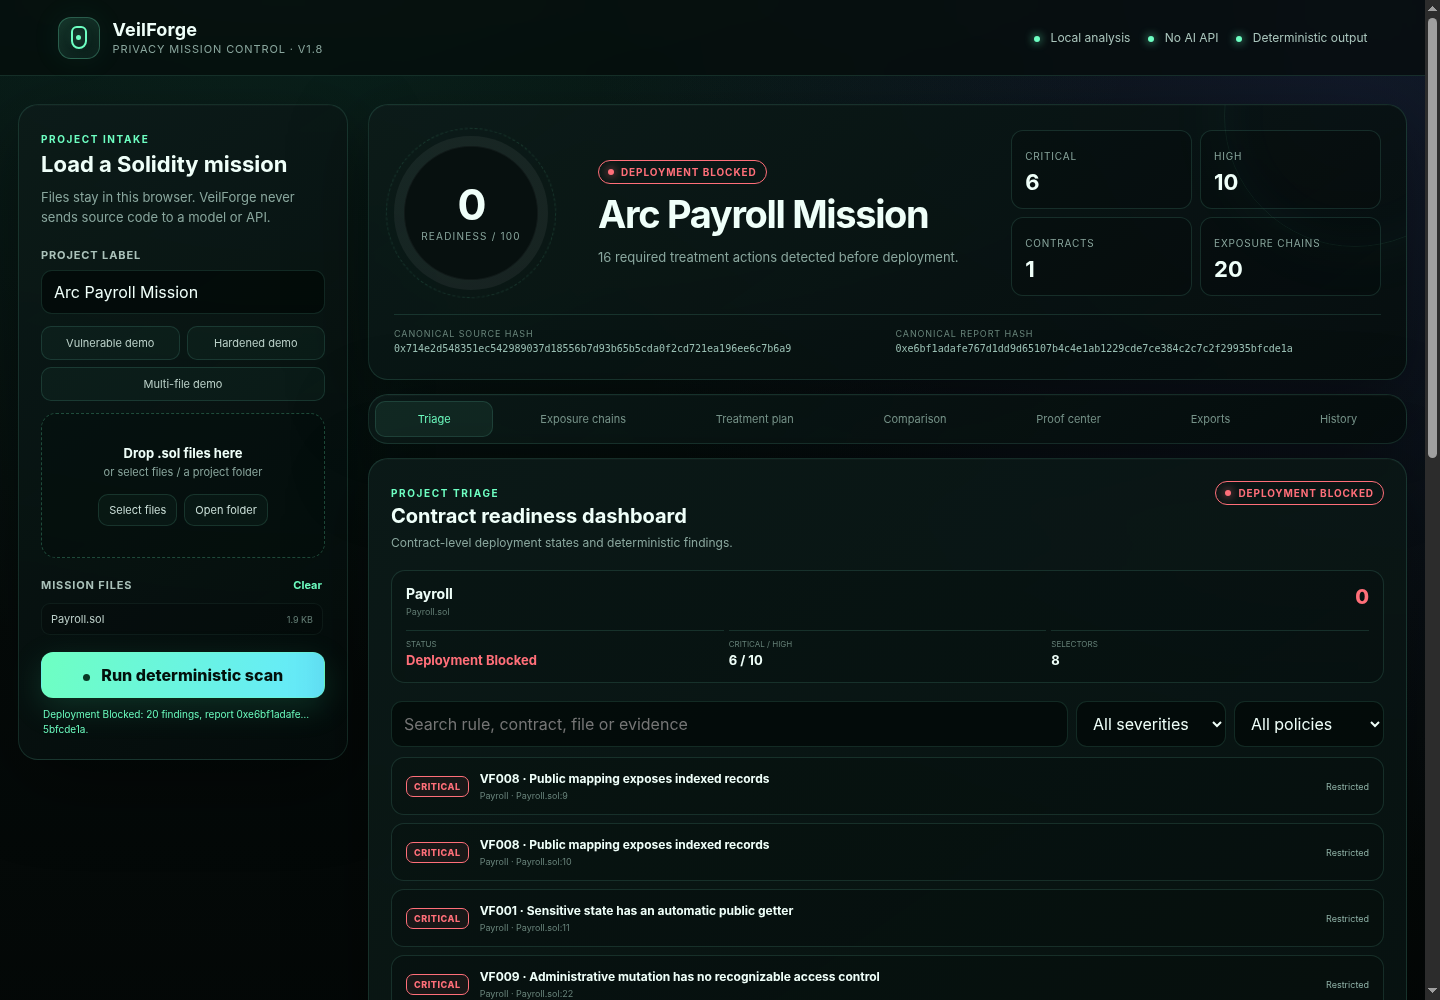
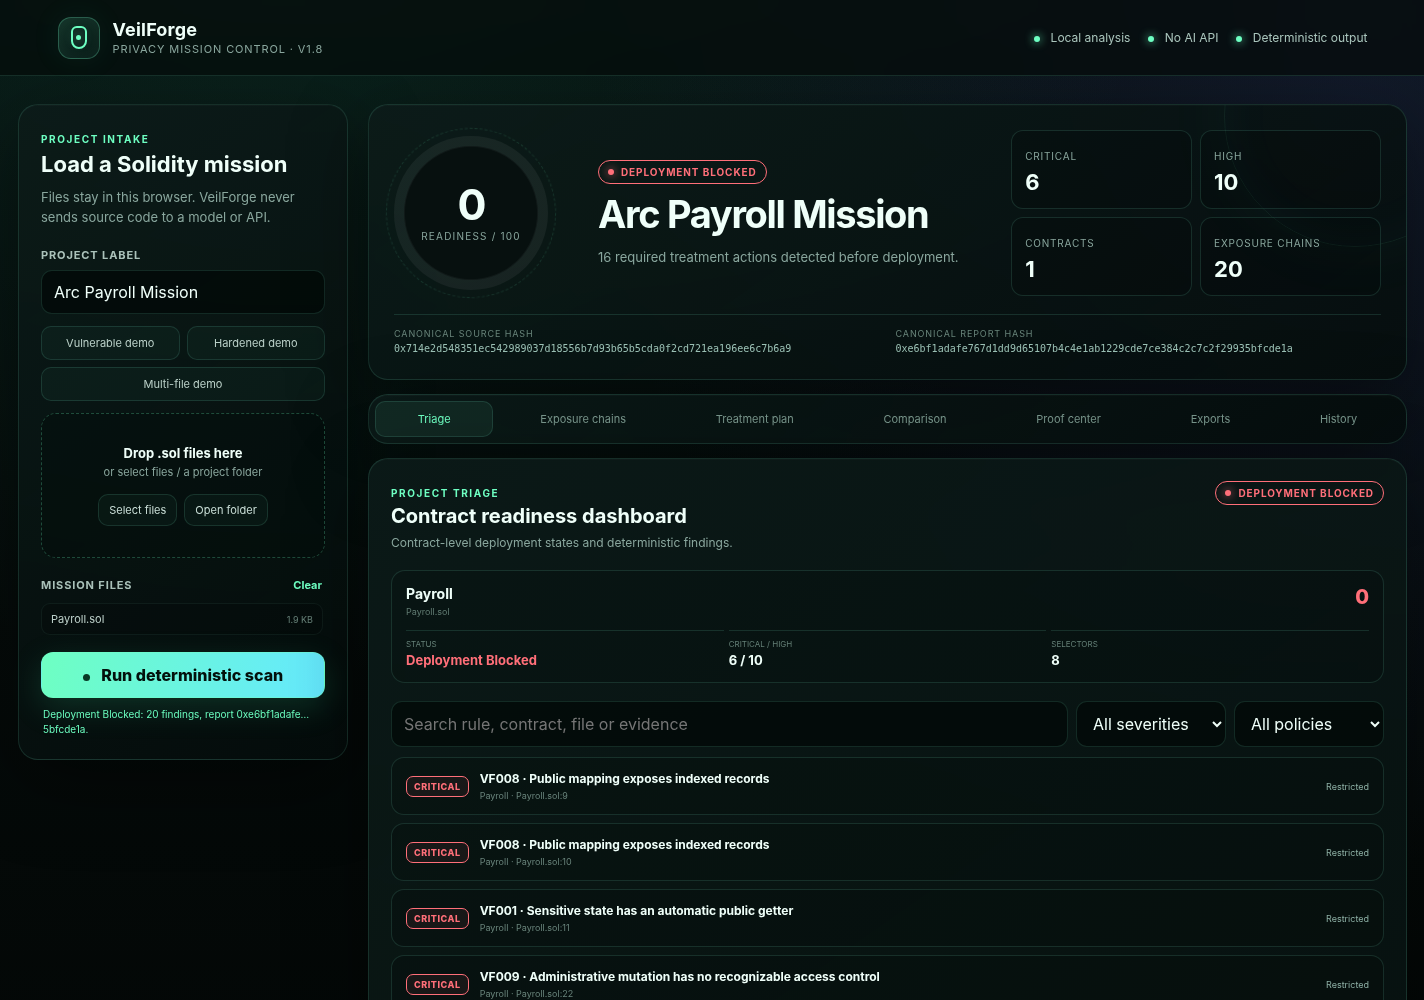
VeilForge-v1.8.15-README-SIMPLE-FIX

diff --git a/README.md b/README.md
@@ -43,68 +43,11 @@ VeilForge analyzes Solidity projects locally before deployment and turns determi
 - canonical JSON, Markdown, Arc Policy Manifest, and Remediation Pack ZIP exports
 - reusable analyzer engine, CLI, custom-rule interface, JSON schemas, and integration examples
 
-## Product tour
-
-### Privacy Mission Control
-
-Project-level intake, deterministic scanning, readiness states, filters, hashes, and findings in one workspace.
-
 <p align="center">
   <img
     src="./assets/v1.8/veilforge-v18-dashboard.png"
-    alt="VeilForge v1.8 contract readiness dashboard"
-    width="100%"
-  />
-</p>
-
-### Deterministic exposure chains
-
-Trace how a privacy-relevant storage value reaches functions, events, callable selectors, and the recommended Arc policy boundary.
-
-<p align="center">
-  <img
-    src="./assets/v1.8/veilforge-v18-exposure-chains.png"
-    alt="VeilForge deterministic exposure chains"
-    width="82%"
-  />
-</p>
-
-### Baseline comparison
-
-Compare scans to identify findings that were resolved, remain ongoing, or were introduced by a new revision.
-
-<p align="center">
-  <img
-    src="./assets/v1.8/veilforge-v18-comparison.png"
-    alt="VeilForge baseline comparison"
-    width="82%"
-  />
-</p>
-
-### Multi-EVM wallet session and Proof Center 2.0
-
-VeilForge discovers compatible browser wallets through EIP-6963/EIP-1193, simulates the registry call, sends the selected-wallet transaction, waits for the receipt, and reports success only after onchain confirmation.
-
-<p align="center">
-  <img
-    src="./assets/v1.8/veilforge-v18-wallet-session.png"
-    alt="VeilForge connected wallet session"
-    width="48%"
-  />
-  <img
-    src="./assets/v1.8/veilforge-v18-proof-center.png"
-    alt="VeilForge Arc Testnet Proof Center"
-    width="48%"
-  />
-</p>
-
-### Verified Arc Testnet publication
-
-<p align="center">
-  <img
-    src="./assets/v1.8/veilforge-v18-arcscan-success.png"
-    alt="Successful VeilForge report publication on ArcScan"
-    width="100%"
+    alt="VeilForge v1.8 Privacy Mission Control workspace"
+    width="92%"
   />
 </p>
 